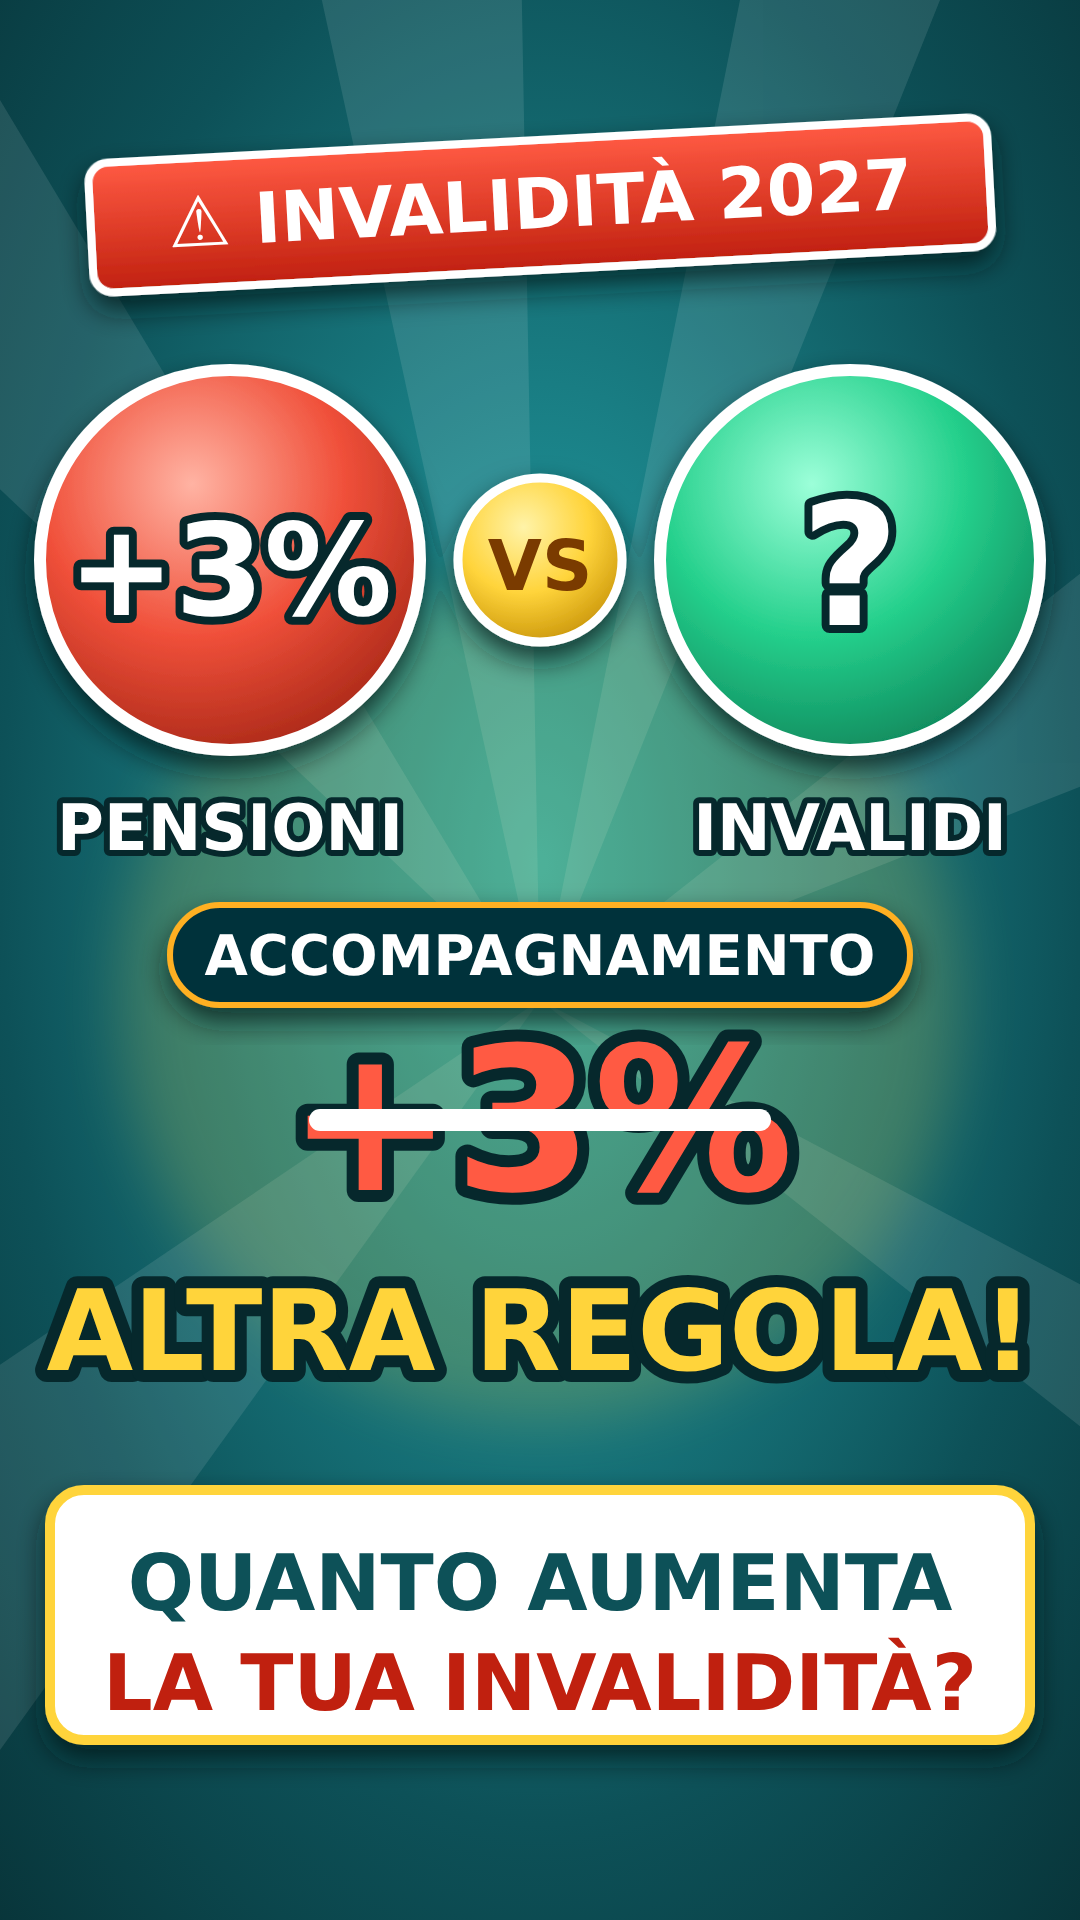
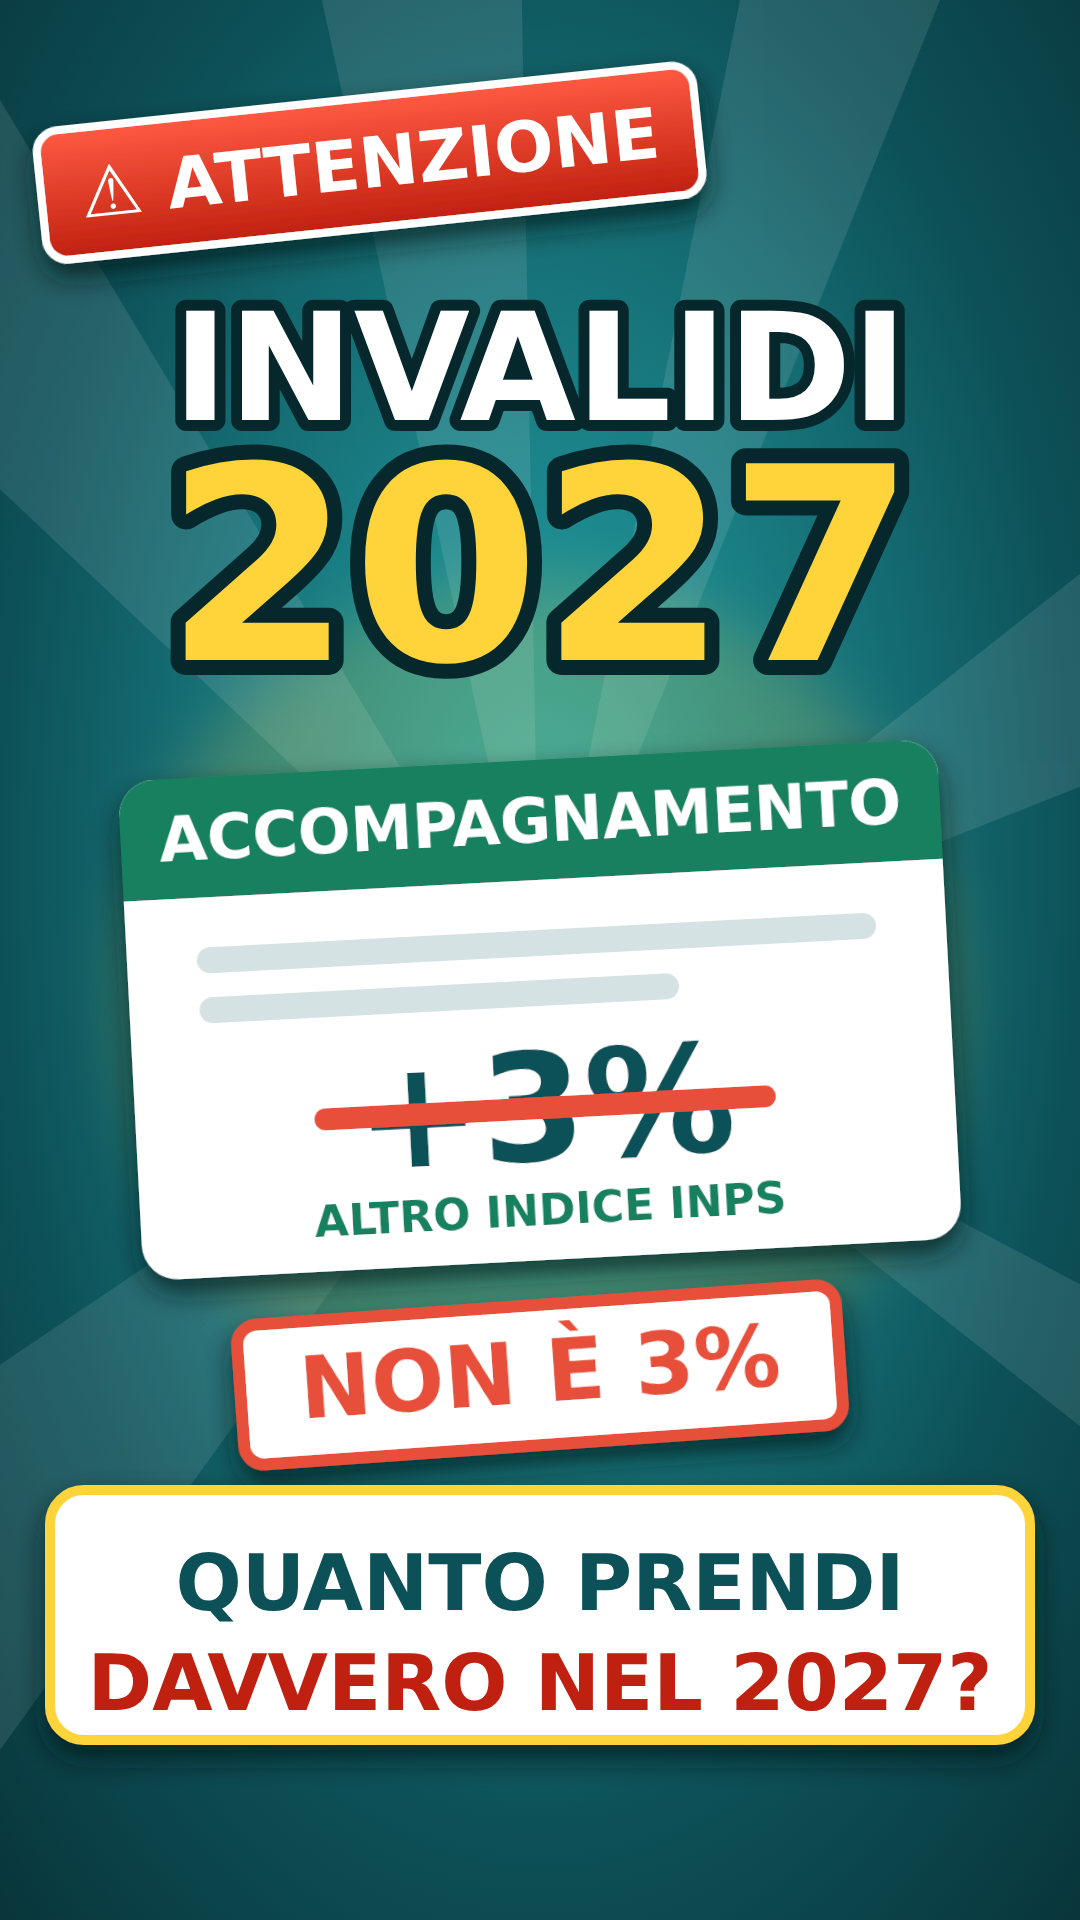
Short 6: miniatura con layout nuovo; regola miniature diverse
Claude-Session: https://claude.ai/code/session_01Y9GytbivN9L4hEEgk1LgnF

diff --git a/conti_in_pensione/15-short-6-teaser-video-lungo-4/miniatura/vecchia-uguale-short5.html b/conti_in_pensione/15-short-6-teaser-video-lungo-4/miniatura/vecchia-uguale-short5.html
@@ -12,29 +12,20 @@
 <rect width="1080" height="1920" fill="url(#bg)"/>
 <g opacity="0.10" fill="#fff"><path d="M540 1000 L-200 300 L0 100Z"/><path d="M540 1000 L300 -100 L520 -100Z"/><path d="M540 1000 L760 -100 L980 -100Z"/><path d="M540 1000 L1300 400 L1300 700Z"/><path d="M540 1000 L1300 1400 L1300 1600Z"/><path d="M540 1000 L-200 1500 L0 1750Z"/></g>
 <circle cx="540" cy="1000" r="420" fill="#FFD43B" opacity="0.18" filter="url(#gl)"/>
-
-<!-- tag ATTENZIONE -->
-<g filter="url(#sh)" transform="rotate(-6 300 170)"><rect x="40" y="105" width="660" height="130" rx="22" fill="url(#rb)" stroke="#fff" stroke-width="8"/></g>
-<text x="370" y="195" class="t" font-size="70" fill="#fff" text-anchor="middle" transform="rotate(-6 300 170)">⚠ ATTENZIONE</text>
-<!-- titolo gigante -->
-<g class="t" text-anchor="middle" stroke="#06282C" stroke-linejoin="round" paint-order="stroke">
-<text x="540" y="420" font-size="150" fill="#fff" stroke-width="22">INVALIDI</text>
-<text x="540" y="660" font-size="270" fill="#FFD43B" stroke-width="30">2027</text></g>
-<!-- scheda accompagnamento -->
-<g filter="url(#sh)" transform="rotate(-3 540 1010)">
-<rect x="130" y="760" width="820" height="500" rx="36" fill="#fff"/>
-<rect x="130" y="760" width="820" height="120" rx="36" fill="#13805F"/><rect x="130" y="840" width="820" height="40" fill="#13805F"/>
-<text x="540" y="842" class="t" font-size="62" fill="#fff" text-anchor="middle">ACCOMPAGNAMENTO</text>
-<rect x="200" y="930" width="680" height="26" rx="13" fill="#D5E2E4"/><rect x="200" y="980" width="480" height="26" rx="13" fill="#D5E2E4"/>
-<text x="540" y="1160" class="t" font-size="150" fill="#0D5158" text-anchor="middle">+3%</text>
-<line x1="320" y1="1108" x2="760" y2="1108" stroke="#E8503A" stroke-width="22" stroke-linecap="round"/>
-<text x="540" y="1225" class="t" font-size="44" fill="#13805F" text-anchor="middle">ALTRO INDICE INPS</text>
-</g>
-<!-- timbro -->
-<g transform="rotate(-4 540 1375)" filter="url(#sh)"><rect x="240" y="1305" width="600" height="140" rx="20" fill="#fff" stroke="#E8503A" stroke-width="12"/>
-<text x="540" y="1402" class="t" font-size="86" fill="#E8503A" text-anchor="middle">NON È 3%</text></g>
-<!-- striscia bianca bordo giallo -->
+<!-- banner -->
+<g filter="url(#sh)" transform="rotate(-3 540 200)"><rect x="90" y="140" width="900" height="130" rx="20" fill="url(#rb)" stroke="#fff" stroke-width="8"/></g>
+<text x="540" y="228" class="t" font-size="70" fill="#fff" text-anchor="middle" transform="rotate(-3 540 200)">⚠ INVALIDITÀ 2027</text>
+<g filter="url(#sh)"><circle cx="230" cy="560" r="190" fill="url(#re)" stroke="#fff" stroke-width="12"/><circle cx="850" cy="560" r="190" fill="url(#gr)" stroke="#fff" stroke-width="12"/><circle cx="540" cy="560" r="82" fill="url(#ye)" stroke="#fff" stroke-width="9"/></g>
+<g class="t" text-anchor="middle" stroke="#06282C" stroke-width="16" stroke-linejoin="round" paint-order="stroke"><text x="230" y="615" font-size="128" fill="#fff">+3%</text><text x="850" y="625" font-size="170" fill="#fff">?</text></g>
+<text x="540" y="590" class="t" font-size="70" fill="#7A3B00" text-anchor="middle">VS</text>
+<g class="t" text-anchor="middle" font-size="64" fill="#fff" stroke="#06282C" stroke-width="12" stroke-linejoin="round" paint-order="stroke"><text x="230" y="850">PENSIONI</text><text x="850" y="850">INVALIDI</text></g>
+<g filter="url(#sh)"><rect x="170" y="905" width="740" height="100" rx="50" fill="#06303A" stroke="#FFB020" stroke-width="6"/></g>
+<text x="540" y="975" class="t" font-size="56" fill="#fff" text-anchor="middle">ACCOMPAGNAMENTO</text>
+<g class="t" text-anchor="middle" stroke="#06282C" stroke-width="24" stroke-linejoin="round" paint-order="stroke">
+<text x="540" y="1190" font-size="200" fill="#FF5A43">+3%</text>
+<text x="540" y="1370" font-size="112" fill="#FFD43B">ALTRA REGOLA!</text></g>
+<line x1="320" y1="1120" x2="760" y2="1120" stroke="#fff" stroke-width="22" stroke-linecap="round"/>
 <g filter="url(#sh)"><rect x="50" y="1490" width="980" height="250" rx="34" fill="#fff"/><rect x="50" y="1490" width="980" height="250" rx="34" fill="none" stroke="#FFD43B" stroke-width="10"/></g>
-<text x="540" y="1610" class="t" font-size="78" fill="#0D5158" text-anchor="middle">QUANTO PRENDI</text>
-<text x="540" y="1710" class="t" font-size="78" fill="#C0200F" text-anchor="middle">DAVVERO NEL 2027?</text>
+<text x="540" y="1610" class="t" font-size="78" fill="#0D5158" text-anchor="middle">QUANTO AUMENTA</text>
+<text x="540" y="1710" class="t" font-size="78" fill="#C0200F" text-anchor="middle">LA TUA INVALIDITÀ?</text>
 </svg></body></html>

diff --git a/conti_in_pensione/REGOLE-FISSE.md b/conti_in_pensione/REGOLE-FISSE.md
@@ -173,3 +173,4 @@
 - Risposte ai commenti YouTube: scritte con i NUMERI in cifre (non in lettere: non sono voce), in un riquadro.
 - (08/10/2026) Short 6: 6 clip S6-blocco01..06.mp4 fatte (QA OK su tutti i fotogrammi, 1080x1920, 30 fps, 1924 fotogrammi = 64,1 s; tempi sulla voce stimati a caratteri, tutto completo entro l'80% del blocco). Cartella 15-short-6-teaser-video-lungo-4 (clip, sorgenti, DURATE.txt, copione-blocchi.txt). Da fare: miniatura e pacchetto (solo se ordinati).
 - Risposte ai commenti offensivi (es. "SOMARI"): chiedere con gentilezza di moderare i termini, spiegando che il canale e' solo informativo: non decide e non paga le pensioni.
+- (09/10/2026) Miniature degli short: ogni short ha un LAYOUT DIVERSO dal precedente (stesso stile del canale), non lo stesso schema con altri numeri. L'utente ha rifiutato la miniatura dello short 6 uguale allo short 5 ("cambia solo 2 numeri"): rifatta con tag ATTENZIONE, INVALIDI 2027 gigante, scheda accompagnamento, timbro NON E' 3%.
